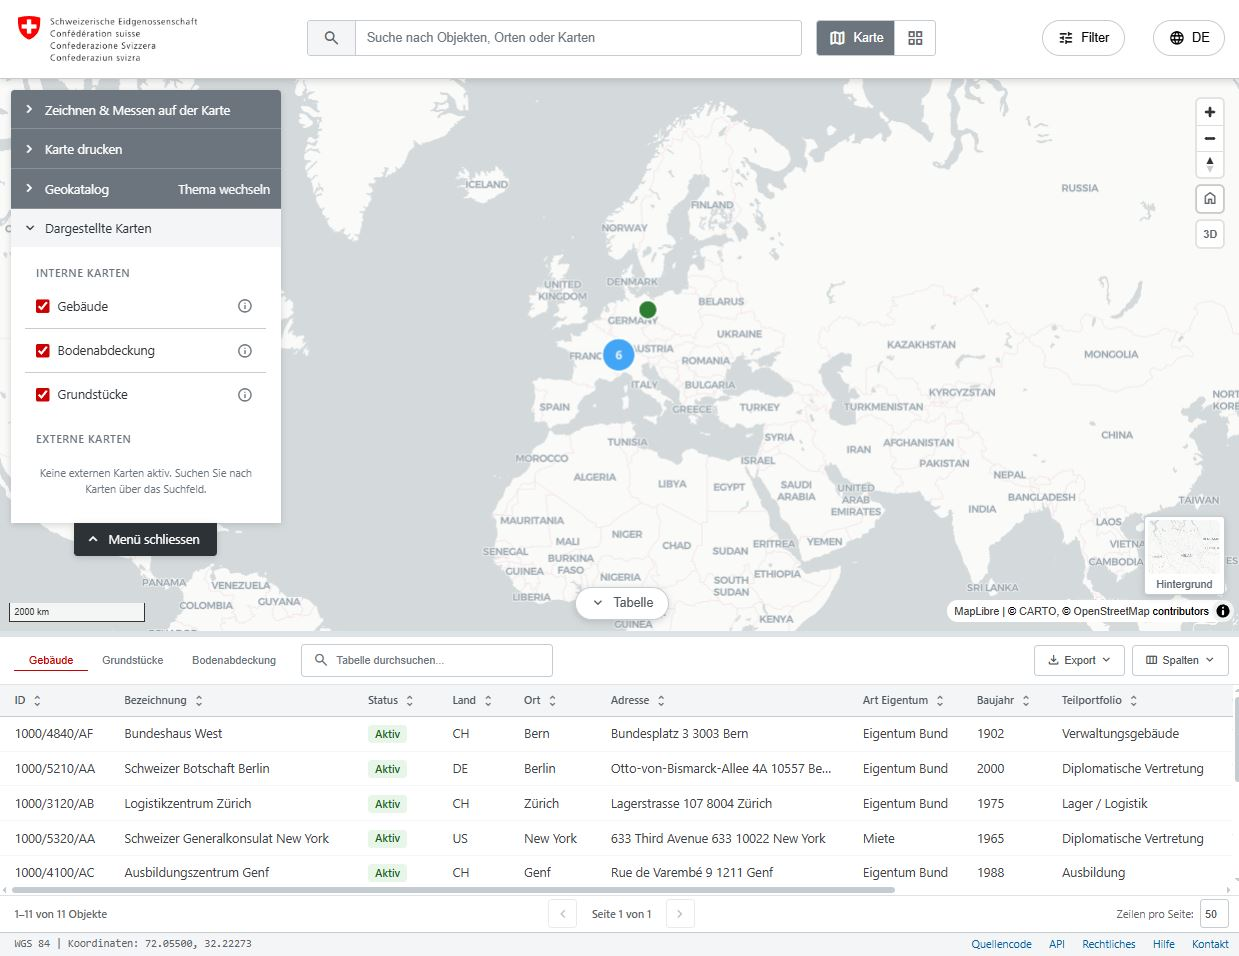
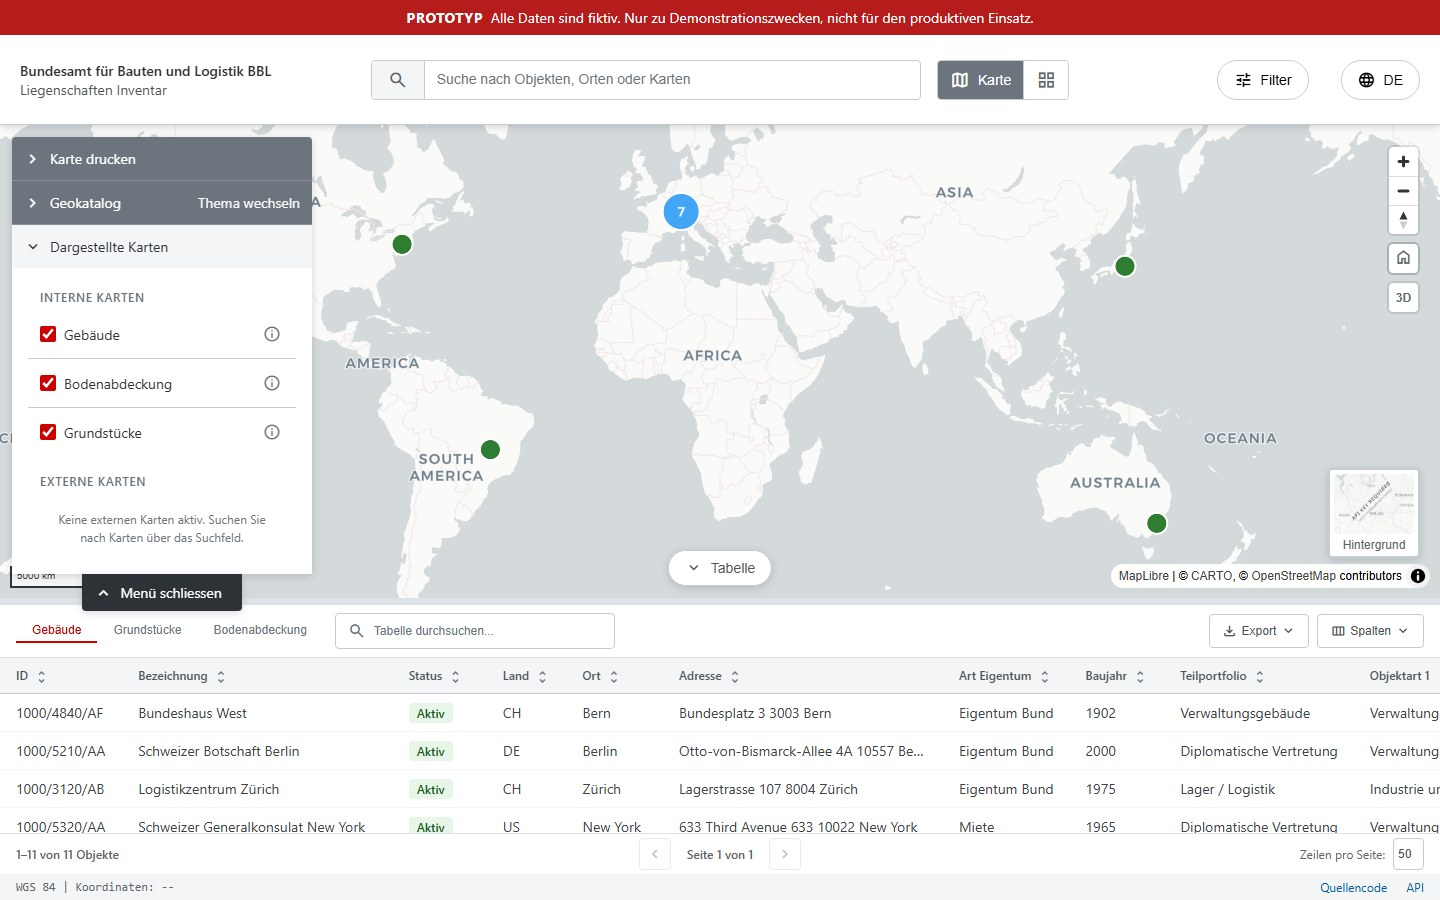
Update

diff --git a/README.md b/README.md
@@ -1,6 +1,6 @@
 # Property Inventory / Liegenschaften Inventar
 
-![Property Inventory preview](assets/images/preview-4.jpg)
+![Painterly architectural collage of office facades, an embassy portico and a courtyard](assets/images/hero-collage.jpg)
 
 [![Demo](https://img.shields.io/badge/demo-GitHub%20Pages-2ea44f?logo=github&logoColor=white)](https://bbl-dres.github.io/property-inventory/)
 [![License: MIT](https://img.shields.io/badge/license-MIT-blue.svg)](LICENSE)
@@ -19,8 +19,8 @@ approval workflows, GIS data management, and building-height enrichment.
 **Main app:** https://bbl-dres.github.io/property-inventory/
 
 <p align="center">
-  <img src="assets/images/preview-6.jpg" alt="Property Inventory map with building table" width="49%" align="top"/>
-  <img src="assets/images/preview-7.jpg" alt="Property Inventory 3D map with selected property overlays" width="49%" align="top"/>
+  <img src="assets/images/preview-6.jpg" alt="Property Inventory worldwide map with building table" width="49%" align="top"/>
+  <img src="assets/images/preview-7.jpg" alt="Property Inventory 3D map with selected parcel and property information" width="49%" align="top"/>
 </p>
 
 The repository root opens the read-only property inventory.
